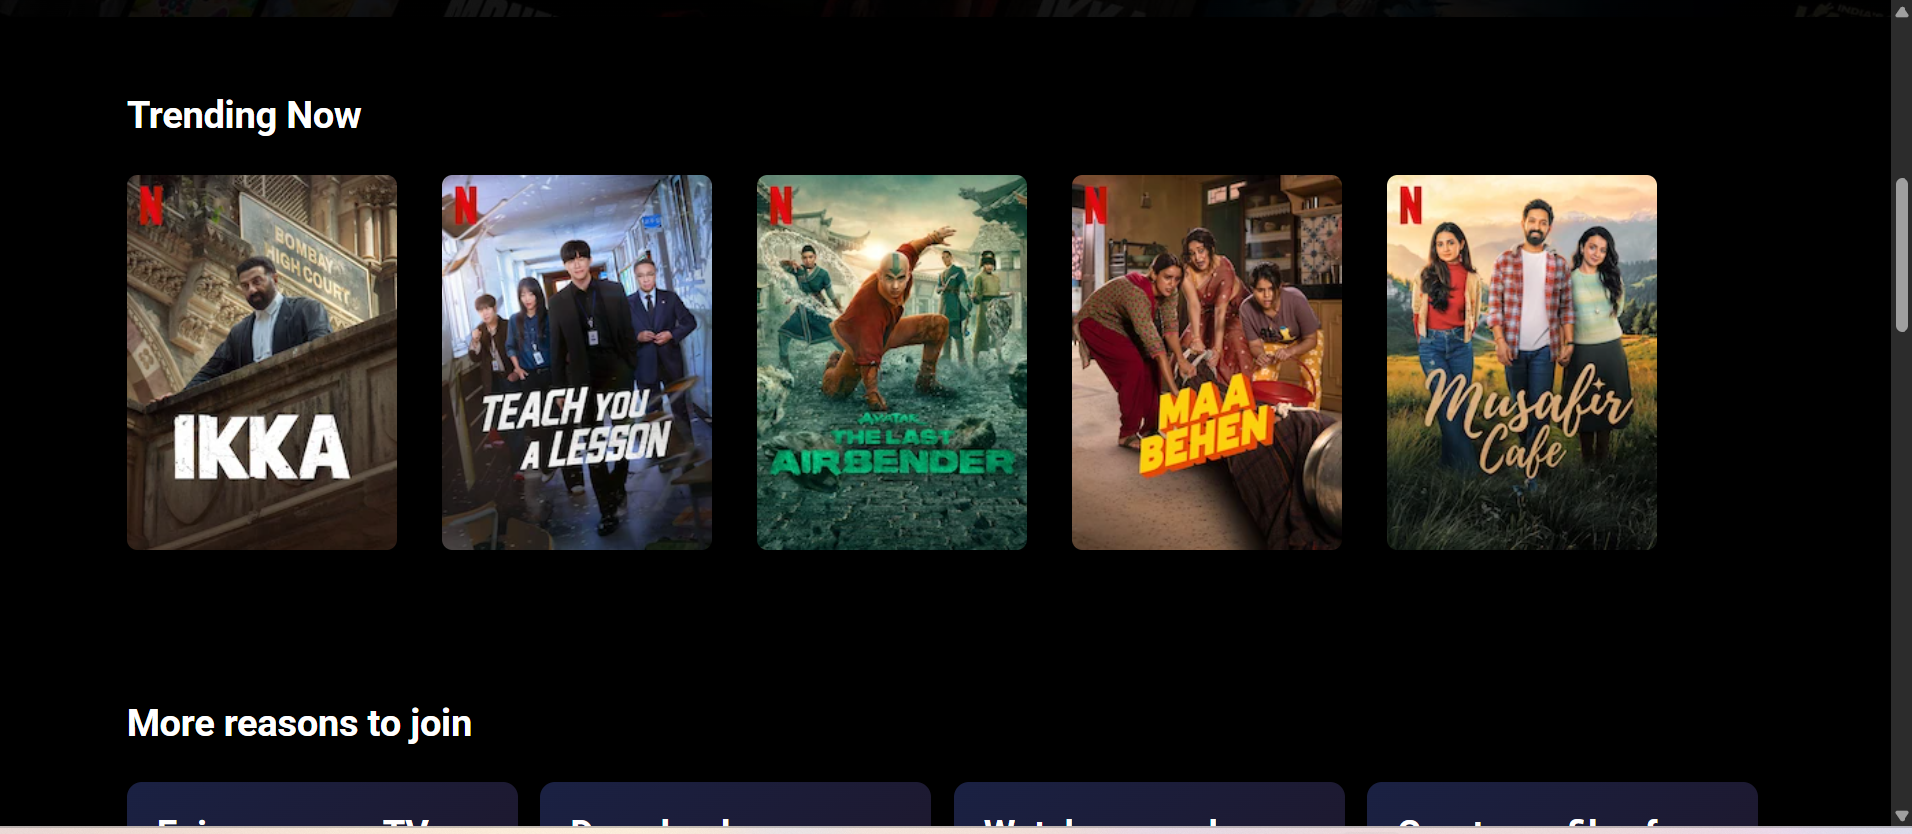
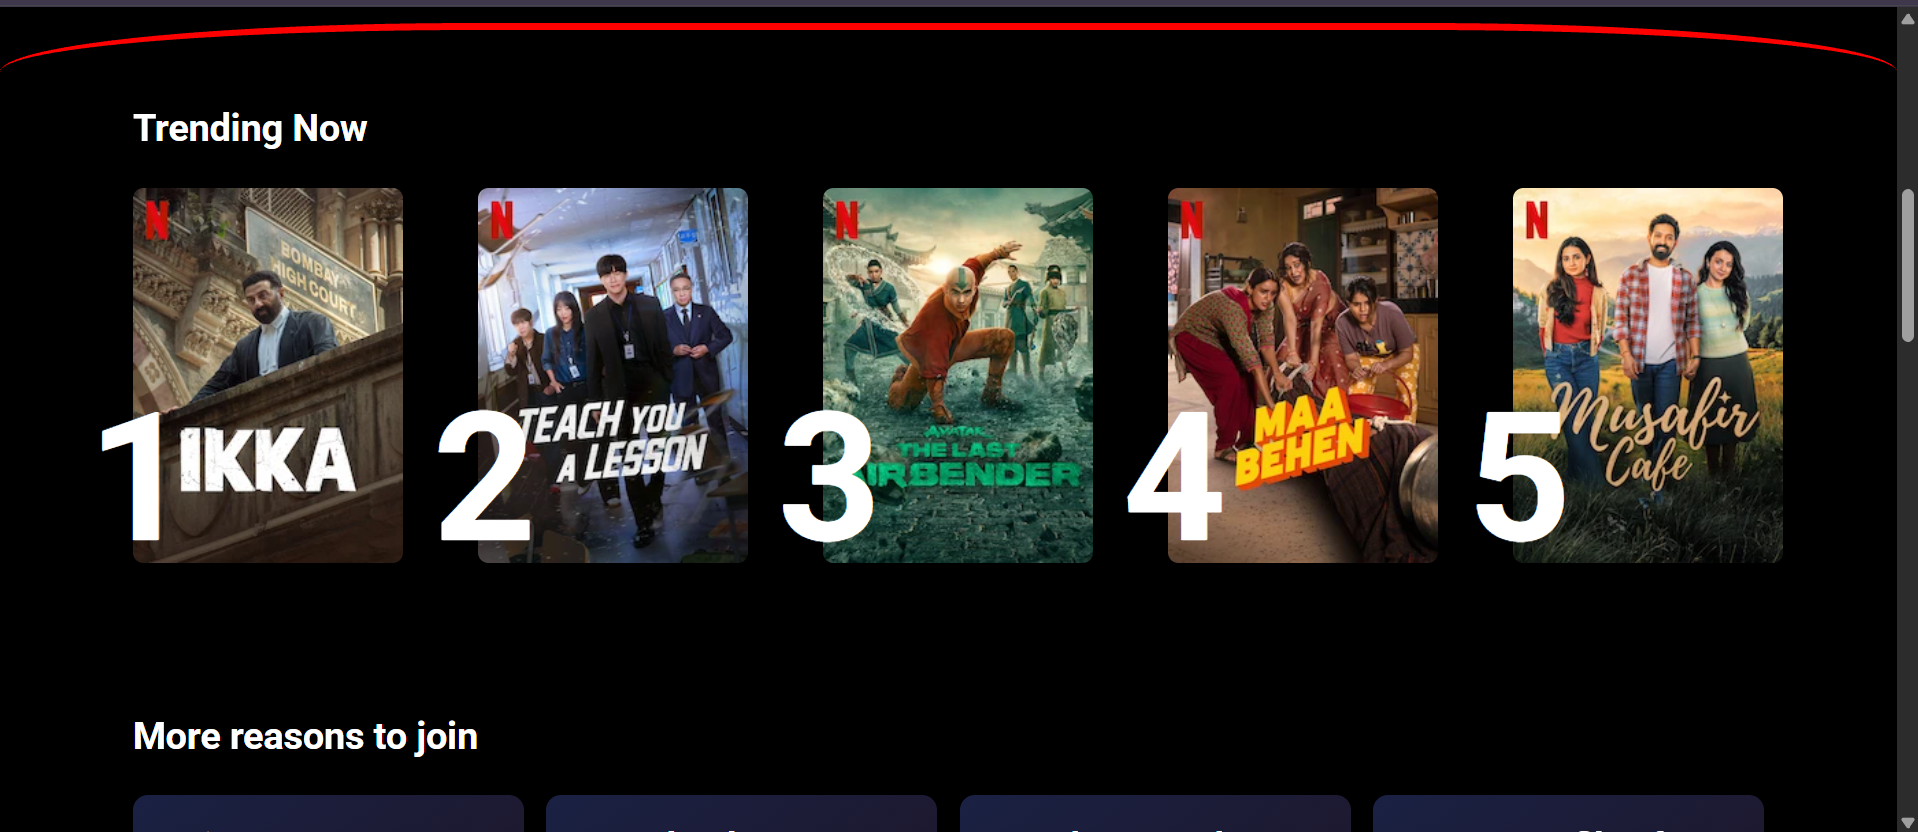
update netflix page

diff --git a/netflix-homepage/index.html b/netflix-homepage/index.html
@@ -108,23 +108,28 @@
         <div class="trending-cards">
 
             <div class="trending-card">
+                <span class="badge">1</span>
                 <img src="assets/images/ikka.webp" alt="">
             </div>
 
             <div class="trending-card">
                 <img src="assets/images/teach.webp" alt="">
+                <span class="badge">2</span>
             </div>
 
             <div class="trending-card">
                 <img src="assets/images/3.webp" alt="">
+                <span class="badge">3</span>
             </div>
 
             <div class="trending-card">
                 <img src="assets/images/4.webp" alt="">
+                <span class="badge">4</span>
             </div>
 
             <div class="trending-card">
                 <img src="assets/images/5.webp" alt="">
+                <span class="badge">5</span>
             </div>
 
         </div>

diff --git a/netflix-homepage/css/style.css b/netflix-homepage/css/style.css
@@ -287,10 +287,12 @@ body {
 
 .trending-section {
     width: 100%;
-
     padding: 50px 7%;
-
+    margin-top: 20px;
     background-color: #000;
+    border-top: 5px solid red;
+    border-top-left-radius: 25% 8%;
+    border-top-right-radius: 25% 8%;
 }
 
 .trending-section h3,
@@ -302,16 +304,15 @@ body {
 }
 
 .trending-cards {
-    display: flex;
-    gap: 30px;
+    display: flex;  
+    gap: 50px;
 }
 
 .trending-card {
     width: 180px;
     height: 250px;
-
+    position: relative;
     flex-shrink: 0;
-
     transition: transform 0.4s;
 }
 
@@ -322,10 +323,17 @@ body {
 .trending-card img {
     width: 100%;
     height: 100%;
-
-    object-fit: cover;
-
+    /* object-fit: cover; */
     border-radius: 7px;
+}
+
+.badge{
+    font-size: 120px;
+    font-weight: bold;
+    position: absolute;
+    left: -30px;
+    bottom: -15px;
+    z-index: 5;
 }
 
 .features-section {
